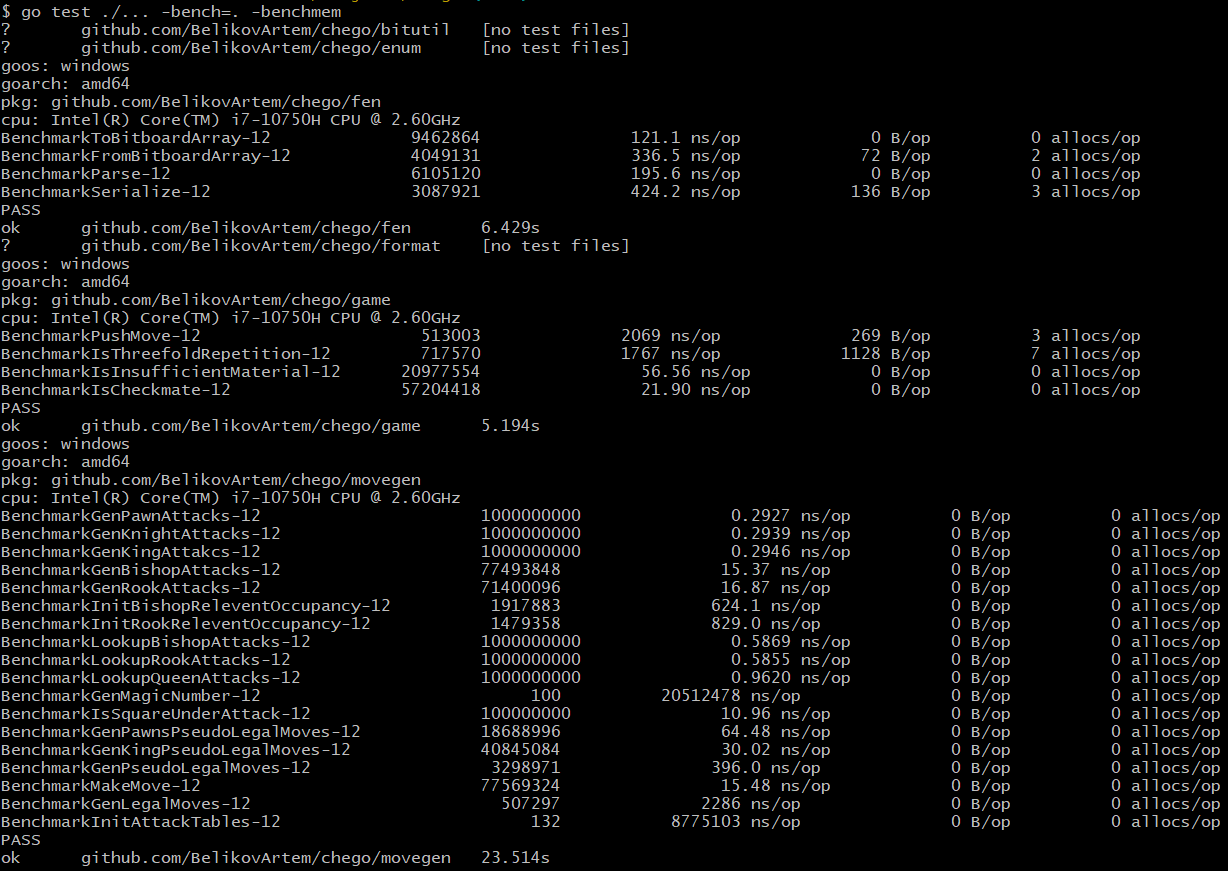
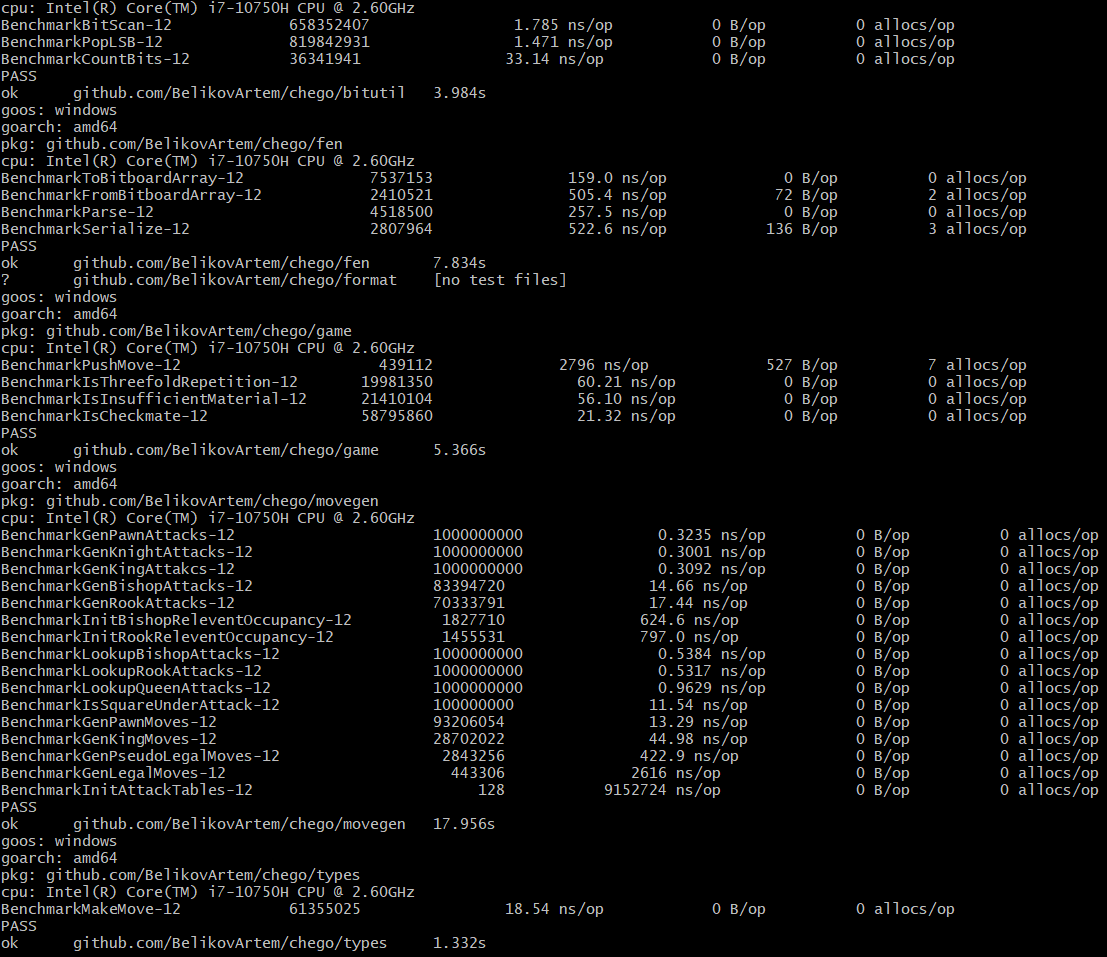
remove GenMagicNumber
GenMagicNumber and its tests have been removed since they are unused.

diff --git a/movegen/movegen.go b/movegen/movegen.go
@@ -2,8 +2,6 @@
 package movegen
 
 import (
-	"math/rand/v2"
-
 	"github.com/BelikovArtem/chego/bitutil"
 	"github.com/BelikovArtem/chego/types"
 )
@@ -409,15 +407,8 @@ func genNormalPieceMoves(piece int, pieceType types.Piece, allies, occupancy uin
 // genKingMoves appends pseudo-legal moves (quiet moves and captures) for the king on
 // the given position to the specified move list.
 func genKingMoves(p types.Position, king int, l *types.MoveList) {
-	ec := 1 ^ p.ActiveColor
-	var enemies, occupancy uint64
-	for i := types.PieceWPawn; i <= types.PieceBKing; i++ {
-		occupancy |= p.Bitboards[i]
-	}
-	for i := types.PieceWPawn; i <= types.PieceWKing; i++ {
-		enemies |= p.Bitboards[i+ec*6]
-	}
-
+	enemies := p.Bitboards[12+(1^p.ActiveColor)]
+	occupancy := p.Bitboards[14]
 	// Lookup normal moves.
 	attacks := kingAttacks[king]
 	for attacks > 0 {
@@ -485,10 +476,6 @@ func genAttacks(bitboards [15]uint64, c types.Color) uint64 {
 
 	return attacked
 }
-
-// pseudoRandUint64FewBits returns a pseudo-random uint64 with a few set bits.
-// It is used only for a magic number generation.
-func pseudoRandUint64FewBits() uint64 { return rand.Uint64() & rand.Uint64() & rand.Uint64() }
 
 // genPawnAttacks returns a bitboard of squares attacked by a pawn.
 func genPawnAttacks(pawn uint64, color types.Color) uint64 {
@@ -674,63 +661,6 @@ func genOccupancy(key, relevantBitCount int, relevantOccupancy uint64) uint64 {
 	}
 
 	return occupancy
-}
-
-// genMagicNumber returns a magic number used to hash sliding piece's possible moves.
-// THERE IS NO NEED TO CALL THIS FUNCTION! The magic number tables are predifined.
-// May panic if the random number was not generated correctly.
-// See https://www.chessprogramming.org/Looking_for_Magics
-func genMagicNumber(square int, isBishop bool) uint64 {
-	var occupancies, attacks [4096]uint64
-
-	var attack uint64
-	var relevantBitCount int
-	if isBishop {
-		attack = bishopRelevantOccupancy[square]
-		relevantBitCount = bishopRelevantOccupancyBitCount[square]
-	} else {
-		attack = rookRelevantOccupancy[square]
-		relevantBitCount = rookRelevantOccupancyBitCount[square]
-	}
-
-	for i := 0; i < 1<<relevantBitCount; i++ {
-		occupancies[i] = genOccupancy(i, relevantBitCount, attack)
-
-		if isBishop {
-			attacks[i] = genBishopAttacks(1<<square, occupancies[i])
-		} else {
-			attacks[i] = genRookAttacks(1<<square, occupancies[i])
-		}
-	}
-
-	for i := 0; i < 100000000; i++ {
-		magicNumber := pseudoRandUint64FewBits()
-
-		if bitutil.CountBits(attack*magicNumber&0xFF00000000000000) < 6 {
-			continue
-		}
-
-		var taken [4096]uint64
-		var j, fail int
-
-		for ; j < 1<<relevantBitCount; j++ {
-			// Form a magic hash key.
-			magicKey := int(occupancies[j] * magicNumber >> (64 - relevantBitCount))
-
-			if taken[magicKey] == 0 {
-				taken[magicKey] = attacks[j]
-			} else if taken[magicKey] != attacks[j] {
-				fail = 1
-				break
-			}
-		}
-
-		if fail == 0 {
-			return magicNumber
-		}
-	}
-
-	panic("failed to generate magic number")
 }
 
 // lookupBishopAttacks returns a bitboard of squares attacked by a bishop.

diff --git a/movegen/movegen_test.go b/movegen/movegen_test.go
@@ -158,18 +158,6 @@ func TestBitScan(t *testing.T) {
 	}
 }
 
-func TestGenMagicNumber(t *testing.T) {
-	t.Logf("\n\n")
-	for square := 0; square < 64; square++ {
-		t.Logf("%x,\n", genMagicNumber(square, true))
-	}
-
-	t.Logf("\n\n")
-	for square := 0; square < 64; square++ {
-		t.Logf("%x,\n", genMagicNumber(square, false))
-	}
-}
-
 func TestLookupBishopAttacks(t *testing.T) {
 	var occupancy uint64 = types.F2 | types.B3 | types.F4 | types.D5 | types.G7
 	for square := uint64(1); square != 0; square <<= 1 {
@@ -597,12 +585,6 @@ func BenchmarkLookupRookAttacks(b *testing.B) {
 func BenchmarkLookupQueenAttacks(b *testing.B) {
 	for i := 0; i < b.N; i++ {
 		lookupQueenAttacks(35, 0x0)
-	}
-}
-
-func BenchmarkGenMagicNumber(b *testing.B) {
-	for i := 0; i < b.N; i++ {
-		genMagicNumber(23, false)
 	}
 }
 
